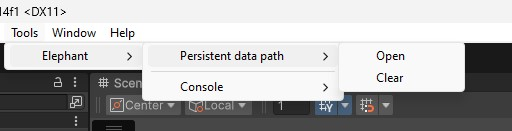
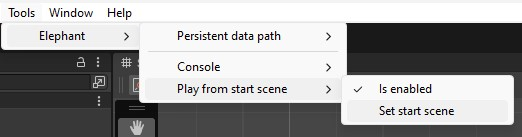
Add PlayFromStartScene, ConvertToBool

diff --git a/Elephant.UnityLibrary.EditorOnly/PlayFromStartupScene.cs b/Elephant.UnityLibrary.EditorOnly/PlayFromStartupScene.cs
@@ -1,0 +1,176 @@
+#nullable enable
+
+using UnityEditor;
+using UnityEditor.SceneManagement;
+using UnityEngine;
+using UnityEngine.SceneManagement;
+
+namespace Elephant.UnityLibrary.EditorOnly
+{
+	/// <summary>
+	/// Ensures that the Unity Editor always starts playing from a designated start scene,
+	/// and returns to it after the play mode ends.
+	/// </summary>
+	/// <remarks>[InitializeOnLoad] is applied and initializes this class as soon as the project is loaded.</remarks>
+	[InitializeOnLoad]
+	public class PlayFromStartupScene
+	{
+		/// <summary>
+		/// Prefix menu item path for all menu items of this script.
+		/// </summary>
+		private const string PlayFromStartSceneMenuItemPrefix = "Tools/Elephant/Play from start scene/";
+
+		/// <summary>
+		/// Toggle menu item path.
+		/// </summary>
+		private const string MenuItemToggle = PlayFromStartSceneMenuItemPrefix + "Is enabled";
+
+		/// <summary>
+		/// "Set start scene" menu item path.
+		/// </summary>
+		private const string MenuItemSetStartScene = PlayFromStartSceneMenuItemPrefix + "Set start scene";
+
+		/// <summary>
+		/// <see cref="_isEnabled"/> <see cref="EditorPrefs"/> key.
+		/// </summary>
+		private const string PrefIsEnabled = "Elephant_PlayFromStartScene_IsEnabled";
+
+		/// <summary>
+		/// <see cref="StartScenePath"/> <see cref="EditorPrefs"/> key.
+		/// </summary>
+		private const string PrefStartScene = "Elephant_PlayFromStartScene_StartScenePath";
+
+		/// <summary>
+		/// <see cref="EditorScene"/> <see cref="EditorPrefs"/> key.
+		/// </summary>
+		/// <remarks>
+		/// I'm using this instead of a private static string because my version of Unity
+		/// currently contains a bug regarding the static.
+		/// </remarks>
+		private const string PrefEditorScene = "Elephant_PlayFromStartScene_EditorScenePath";
+
+		/// <summary>
+		/// Path to the start scene. Update this path according to your start scene location in the Assets folder.
+		/// </summary>
+		private static string? StartScenePath => EditorPrefs.GetString(PrefStartScene, null);
+
+		/// <summary>
+		/// Determines if this script is enabled when switching PlayModes.
+		/// </summary>
+		private static bool _isEnabled = false;
+
+		/// <summary>
+		/// Path to the last active scene before entering play mode.
+		/// </summary>
+		/// <remarks>
+		/// Uses <see cref="EditorPrefs"/> instead of a private static string because my version of Unity
+		/// currently contains a bug regarding the static.
+		/// </remarks>
+		private static string? EditorScene
+		{
+			get => EditorPrefs.GetString(PrefEditorScene, null);
+			set => EditorPrefs.SetString(PrefEditorScene, value);
+		}
+
+		/// <summary>
+		/// Static constructor to subscribe to the <see cref="EditorApplication.playModeStateChanged"/> event.
+		/// </summary>
+		static PlayFromStartupScene()
+		{
+			// Update checked state.
+			_isEnabled = EditorPrefs.GetBool(PrefIsEnabled, false);
+			Menu.SetChecked(MenuItemToggle, _isEnabled);
+
+			// Hook.
+			EditorApplication.playModeStateChanged += OnPlayModeChanged;
+		}
+
+		/// <summary>
+		/// Deconstructor.
+		/// </summary>
+		~PlayFromStartupScene()
+		{
+			try
+			{
+				// Unhook.
+				EditorApplication.playModeStateChanged -= OnPlayModeChanged;
+			}
+			catch
+			{
+				// Do nothing.
+			}
+		}
+
+		#region Menu items
+
+		/// <summary>
+		/// Toggles <see cref="_isEnabled"/> and the related menu item. Result is saved into <see cref="EditorPrefs"/>.
+		/// </summary>
+		[MenuItem(MenuItemToggle)]
+		private static void ToggleEnable()
+		{
+			_isEnabled = !_isEnabled;
+			EditorPrefs.SetBool(PrefIsEnabled, _isEnabled);
+			Menu.SetChecked(MenuItemToggle, _isEnabled);
+		}
+
+		/// <summary>
+		/// Menu item for selecting the starting scene.
+		/// </summary>
+		[MenuItem(MenuItemSetStartScene)]
+		private static void SetStartScene()
+		{
+			// Open a dialog to choose the scene.
+			string scene = EditorUtility.OpenFilePanel("Select start scene", "Assets", "unity");
+			if (!string.IsNullOrEmpty(scene))
+			{
+				// Convert the full path into a relative path and store it in EditorPrefs.
+				EditorPrefs.SetString(PrefStartScene, scene.Replace(Application.dataPath, "Assets"));
+			}
+		}
+
+		#endregion
+
+		/// <summary>
+		/// Called when the play mode state changes. This method handles the switching of scenes
+		/// when entering play mode and when returning to edit mode.
+		/// </summary>
+		/// <param name="state">The current state of the play mode change.</param>
+		private static void OnPlayModeChanged(PlayModeStateChange state)
+		{
+			if (!_isEnabled)
+				return;
+
+			switch (state)
+			{
+				case PlayModeStateChange.ExitingEditMode:
+					// Save the current scene path before playing.
+					EditorScene = SceneManager.GetActiveScene().path;
+
+					// Save the current scene before playing.
+					EditorSceneManager.SaveCurrentModifiedScenesIfUserWantsTo();
+
+					// If not already in the start scene, switch to it.
+					if (SceneManager.GetActiveScene().path != StartScenePath)
+						EditorSceneManager.OpenScene(StartScenePath);
+					break;
+
+				case PlayModeStateChange.EnteredEditMode:
+					if (!string.IsNullOrEmpty(EditorScene))
+					{
+						if (SceneManager.GetActiveScene().path != EditorScene)
+						{
+							// Return to the scene that was last active before entering play mode.
+							EditorSceneManager.OpenScene(EditorScene);
+						}
+					}
+					else
+					{
+						Debug.LogWarning("Unable to return to the original editor scene because it's either null or empty or no longer exists.");
+					}
+
+					break;
+			}
+		}
+	}
+}

diff --git a/Tests/UnityLibraryTests/StringOperationsTests/EncloseByIfNotAlreadyTests.cs b/Tests/UnityLibraryTests/StringOperationsTests/EncloseByIfNotAlreadyTests.cs
@@ -14,10 +14,13 @@ namespace UnityLibraryTests.StringOperationsTests
 		[SpeedVeryFast, UnitTest]
 		public void EncloseInDoubleQuotes()
 		{
+			// Arrange.
 			const string originalString = "This is a sentence that must be enclosed in double quotes.";
 
+			// Act.
 			string enclosedValue = StringOperations.EncloseByIfNotAlready(originalString, '"');
 
+			// Assert.
 			Assert.Equal($"\"{originalString}\"", enclosedValue);
 		}
 
@@ -28,10 +31,13 @@ namespace UnityLibraryTests.StringOperationsTests
 		[SpeedVeryFast, UnitTest]
 		public void EncloseInDoubleQuotesShouldDoNothing()
 		{
+			// Arrange.
 			const string originalString = "\"This is a sentence that must be enclosed in double quotes.\"";
 
+			// Act.
 			string enclosedValue = StringOperations.EncloseByIfNotAlready(originalString, '"');
 
+			// Assert.
 			Assert.Equal(originalString, enclosedValue);
 		}
 
@@ -42,10 +48,13 @@ namespace UnityLibraryTests.StringOperationsTests
 		[SpeedVeryFast, UnitTest]
 		public void EncloseByA()
 		{
+			// Arrange.
 			const string originalString = "This is a sentence that must be enclosed in double quotes.";
 
+			// Act.
 			string enclosedValue = StringOperations.EncloseByIfNotAlready(originalString, 'A');
 
+			// Assert.
 			Assert.Equal($"A{originalString}A", enclosedValue);
 		}
 	}

diff --git a/Elephant.UnityLibrary/Common/StringOperations.cs b/Elephant.UnityLibrary/Common/StringOperations.cs
@@ -39,6 +39,36 @@ namespace Elephant.UnityLibrary.Common
 		}
 
 		/// <summary>
+		/// Converts the given string value to a boolean representation.
+		/// </summary>
+		/// <param name="value">The string value to convert.</param>
+		/// <returns>
+		/// Returns <c>true</c> if the string value represents true ("true", "1"), <c>false</c> if the string value represents false ("false", "0" or an empty string), otherwise <c>false</c>.
+		/// Null values are considered to be false.
+		/// </returns>
+		public static bool ConvertToBool(string? value)
+		{
+			// Null is considered to be false.
+			if (value == null)
+				return false;
+
+			// Try to parse "true" and "false" strings.
+			if (bool.TryParse(value, out bool result))
+				return result;
+
+			// Try to parse "1" and "0" strings.
+			if (value == "1" || value == "0")
+				return value == "1";
+
+			// Empty string.
+			if (string.IsNullOrEmpty(value))
+				return false;
+
+			// If none of the above, return false.
+			return false;
+		}
+
+		/// <summary>
 		/// Encloses <paramref name="value"/> with <paramref name="encloser"/>. Will do nothing if its already encased in <paramref name="encloser"/>.
 		/// </summary>
 		public static string EncloseByIfNotAlready(string value, char encloser)

diff --git a/Tests/UnityLibraryTests/StringOperationsTests/ConvertToBoolTests.cs b/Tests/UnityLibraryTests/StringOperationsTests/ConvertToBoolTests.cs
@@ -1,0 +1,37 @@
+using Elephant.UnityLibrary.Common;
+
+namespace UnityLibraryTests.StringOperationsTests
+{
+	/// <summary>
+	/// <see cref="StringOperations.ConvertToBool(string?)"/> tests.
+	/// </summary>
+	public class ConvertToBoolTests
+	{
+		/// <summary>
+		/// <see cref="StringOperations.ConvertToBool(string?)"/> tests.
+		/// </summary>
+		[Theory]
+		[SpeedVeryFast, UnitTest]
+		[InlineData("true", true)]
+		[InlineData("True", true)]
+		[InlineData("false", false)]
+		[InlineData("False", false)]
+		[InlineData("1", true)]
+		[InlineData("0", false)]
+		[InlineData("", false)]
+		[InlineData(null, false)]
+		[InlineData("Invalid bool value", false)]
+		[InlineData("bool", false)]
+		[InlineData("&%#", false)]
+		public void ConvertToBoolReturnsExpected(string? value, bool expectedResult)
+		{
+			// Arrange
+
+			// Act
+			bool result = StringOperations.ConvertToBool(value);
+
+			// Assert
+			Assert.Equal(expectedResult, result);
+		}
+	}
+}

diff --git a/Elephant.UnityLibrary/Properties/AssemblyInfo.cs b/Elephant.UnityLibrary/Properties/AssemblyInfo.cs
@@ -32,5 +32,5 @@ using System.Runtime.InteropServices;
 // You can specify all the values or you can default the Build and Revision Numbers
 // by using the '*' as shown below:
 // [assembly: AssemblyVersion("1.0.*")]
-[assembly: AssemblyVersion("3.3.0.0")]
-[assembly: AssemblyFileVersion("3.3.0.0")]
+[assembly: AssemblyVersion("3.4.0.0")]
+[assembly: AssemblyFileVersion("3.4.0.0")]

diff --git a/Elephant.UnityLibrary.EditorOnly/Properties/AssemblyInfo.cs b/Elephant.UnityLibrary.EditorOnly/Properties/AssemblyInfo.cs
@@ -29,5 +29,5 @@ using System.Runtime.InteropServices;
 //      Build Number
 //      Revision
 //
-[assembly: AssemblyVersion("3.1.0.0")]
-[assembly: AssemblyFileVersion("3.1.0.0")]
+[assembly: AssemblyVersion("3.2.0.0")]
+[assembly: AssemblyFileVersion("3.2.0.0")]

diff --git a/README.md b/README.md
@@ -430,6 +430,7 @@ protected override string DefaultLanguageKey() => "your_language_key_here";
 ```c#
 StringOperations.CapitalizeFirstChar(string stringToCapitalize)
 StringOperations.CapitalizeFirstCharNullable(string? stringToCapitalize)
+StringOperations.ConvertToBool(string? value) // Accepts: "true", "True", "false", "False", 1, 0, "", <null>
 StringOperations.EncloseByIfNotAlready(string value, char encloser)
 StringOperations.Join(char separatorChar, params string?[] stringsToCombine)
 StringOperations.JoinWithLeading(char separatorChar, params string?[] stringsToCombine)
